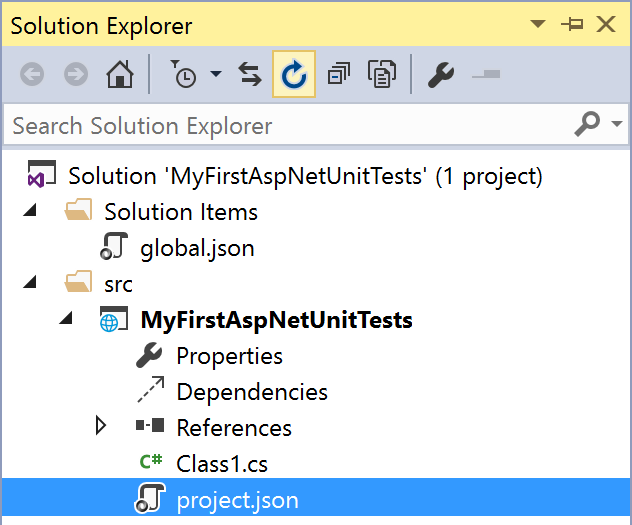
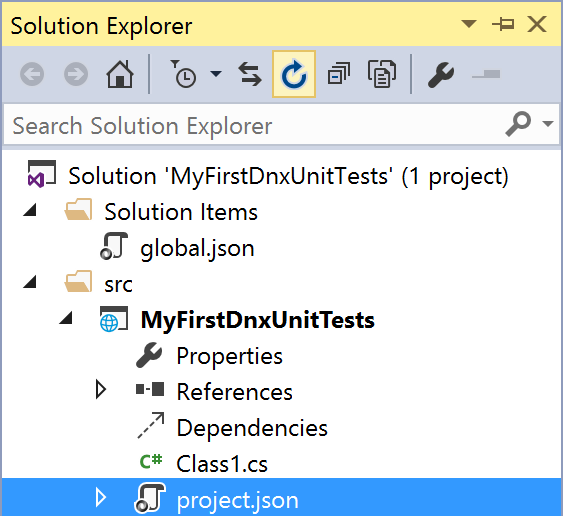
Rename `/docs/getting-started-{aspnet => dnx}.html` and update for DNX beta 4

diff --git a/docs/getting-started-dnx.html b/docs/getting-started-dnx.html
@@ -1,10 +1,11 @@
 ---
 layout: default
-title: Getting Started with xUnit.net and ASP.NET 5
+title: Getting Started with xUnit.net and DNX / ASP.NET 5
 breadcrumb: Documentation
+redirect_from: "/docs/getting-started-aspnet.html"
 ---
 
-<h1>Getting Started with xUnit.net and ASP.NET 5</h1>
+<h1>Getting Started with xUnit.net and DNX / ASP.NET 5</h1>
 
 <p>
   In this article, we will demonstrate getting started with xUnit.net, showing you
@@ -21,8 +22,9 @@ breadcrumb: Documentation
 </ul>
 
 <p><em>
-  Note: The examples were done with xUnit.net v2.1 Beta 1 and ASP.NET v5 Beta 3. The version
-  numbers and paths may differ for you, depending on which version you're using.
+  Note: The examples were done with xUnit.net v2.1 Beta 2, DNX 5.0 Beta 4, ASP.NET v5 Beta 4, and
+  Visual Studio 2015 RC. The version numbers and paths may differ for you, depending on which version
+  you're using.
 </em></p>
 
 <h2 id="create-class-library">Create a class library project</h2>
@@ -32,37 +34,42 @@ breadcrumb: Documentation
   Visual Studio, and choose <code>File &gt; New &gt; Project</code>:
 </p>
 
-<p><img class="border" src="../images/getting-started-aspnet/new-project.png" width="789" /></p>
+<p><img class="border" src="../images/getting-started-aspnet/new-project.png" width="800" /></p>
 
 <h2 id="add-xunit-ref">Add a reference to xUnit.net</h2>
 
 <p>In Solution Explorer, find and open the <code>project.json</code> file:</p>
 
-<p><img class="border" src="../images/getting-started-aspnet/open-project-json.png" width="316" /></p>
+<p><img class="border" src="../images/getting-started-aspnet/open-project-json.png" width="282" /></p>
 
 <p>
-  Add dependencies on the <code>xunit</code> and <code>xunit.runner.aspnet</code> packages, as
+  Add dependencies on the <code>xunit</code> and <code>xunit.runner.dnx</code> packages, as
   well as the <code>test</code> command, as shown below:
 </p>
 
 {% highlight json %}
 {
     "version": "1.0.0-*",
+    "description": "",
+    "authors": [ "" ],
+    "tags": [ "" ],
+    "projectUrl": "",
+    "licenseUrl": "",
     "dependencies": {
-        "xunit": "2.1.0-beta1-*",
-        "xunit.runner.aspnet": "2.1.0-beta1-*"
+        "xunit": "2.1.0-beta2-*",
+        "xunit.runner.dnx": "2.1.0-beta2-*"
     },
     "commands": {
-        "test": "xunit.runner.aspnet"
+        "test": "xunit.runner.dnx"
     },
-    "frameworks" : {
-        "aspnet50" : {
+    "frameworks": {
+        "dnx451": { },
+        "dnxcore50": {
             "dependencies": {
-            }
-        },
-        "aspnetcore50" : {
-            "dependencies": {
-                "System.Runtime": "4.0.20-beta-22605"
+                "System.Collections": "4.0.10-beta-22816",
+                "System.Linq": "4.0.0-beta-22816",
+                "System.Threading": "4.0.10-beta-22816",
+                "Microsoft.CSharp": "4.0.0-beta-22816"
             }
         }
     }
@@ -79,7 +86,7 @@ breadcrumb: Documentation
 {% highlight C# %}
 using Xunit;
 
-namespace MyFirstAspNetUnitTests
+namespace MyFirstDnxUnitTests
 {
     public class Class1
     {
@@ -117,27 +124,27 @@ namespace MyFirstAspNetUnitTests
 </p>
 
 <p>
-  To run the ASP.NET runner, type <code>k test</code>, as shown below:
+  To run the DNX runner, type <code>dnx . test</code>, as shown below:
 </p>
 
 <pre>
-&gt; <span style="background-color: #ff0">k test</span>
-xUnit.net ASP.NET test runner (32-bit Asp.Net 5.0)
+&gt; <span style="background-color: #ff0">dnx . test</span>
+xUnit.net DNX test runner (32-bit DNX 4.5.1)
 Copyright (C) 2015 Outercurve Foundation.
 
-Discovering: MyFirstAspNetUnitTests
-Discovered:  MyFirstAspNetUnitTests
-Starting:    MyFirstAspNetUnitTests
-   <span style="color: #e03030">MyFirstAspNetUnitTests.Class1.FailingTest [FAIL]</span>
+Discovering: MyFirstDnxUnitTests
+Discovered:  MyFirstDnxUnitTests
+Starting:    MyFirstDnxUnitTests
+   <span style="color: #e03030">MyFirstDnxUnitTests.Class1.FailingTest [FAIL]</span>
       Assert.Equal() Failure
       Expected: 5
       Actual:   4
       <span style="color: #a8a8a8">Stack Trace:</span>
-         Class1.cs(16,0): at MyFirstAspNetUnitTests.Class1.FailingTest()
-Finished:    MyFirstAspNetUnitTests
+         Class1.cs(16,0): at MyFirstDnxUnitTests.Class1.FailingTest()
+Finished:    MyFirstDnxUnitTests
 
 === TEST EXECUTION SUMMARY ===
-   MyFirstAspNetUnitTests  Total: 2, Errors: 0, Failed: 1, Skipped: 0, Time: 0.130s
+   MyFirstDnxUnitTests  Total: 2, Errors: 0, Failed: 1, Skipped: 0, Time: 0.130s
 </pre>
 
 <p>
@@ -187,26 +194,26 @@ bool IsOdd(int value)
 <p>This time when we compile and run our tests, we see a second failure, for our theory that was given 6:</p>
 
 <pre>
-xUnit.net ASP.NET test runner (32-bit Asp.Net 5.0)
+xUnit.net DNX test runner (32-bit DNX 4.5.1)
 Copyright (C) 2015 Outercurve Foundation.
 
-Discovering: MyFirstAspNetUnitTests
-Discovered:  MyFirstAspNetUnitTests
-Starting:    MyFirstAspNetUnitTests
-   <span style="color: #e03030">MyFirstAspNetUnitTests.Class1.FailingTest [FAIL]</span>
+Discovering: MyFirstDnxUnitTests
+Discovered:  MyFirstDnxUnitTests
+Starting:    MyFirstDnxUnitTests
+   <span style="color: #e03030">MyFirstDnxUnitTests.Class1.FailingTest [FAIL]</span>
       Assert.Equal() Failure
       Expected: 5
       Actual:   4
       <span style="color: #a8a8a8">Stack Trace:</span>
-         Class1.cs(16,0): at MyFirstAspNetUnitTests.Class1.FailingTest()
-   <span style="color: #E03030">MyFirstAspNetUnitTests.Class1.MyFirstTheory(value: 6) [FAIL]</span>
+         Class1.cs(16,0): at MyFirstDnxUnitTests.Class1.FailingTest()
+   <span style="color: #E03030">MyFirstDnxUnitTests.Class1.MyFirstTheory(value: 6) [FAIL]</span>
       Assert.True() Failure
       <span style="color: #a8a8a8">Stack Trace:</span>
-         Class1.cs(30,0): at MyFirstAspNetUnitTests.Class1.MyFirstTheory(Int32 value)
-Finished:    MyFirstAspNetUnitTests
+         Class1.cs(30,0): at MyFirstDnxUnitTests.Class1.MyFirstTheory(Int32 value)
+Finished:    MyFirstDnxUnitTests
 
 === TEST EXECUTION SUMMARY ===
-   MyFirstAspNetUnitTests  Total: 5, Errors: 0, Failed: 2, Skipped: 0, Time: 0.176s
+   MyFirstDnxUnitTests  Total: 5, Errors: 0, Failed: 2, Skipped: 0, Time: 0.176s
 </pre>
 
 <p>

diff --git a/index.html b/index.html
@@ -42,7 +42,7 @@ noheader: true
 
 <ul>
   <li><a href="docs/getting-started.html">Getting started with xUnit.net</a></li>
-  <li><a href="docs/getting-started-aspnet.html">Getting started with xUnit.net and ASP.NET 5</a></li>
+  <li><a href="docs/getting-started-dnx.html">Getting started with xUnit.net and DNX / ASP.NET 5</a></li>
   <li><a href="docs/nuget-packages.html">What NuGet packages should I use?</a></li>
   <li><a href="docs/capturing-output.html">Capturing output</a></li>
   <li><a href="docs/configuration-files.html">Configuring xUnit.net</a></li>
